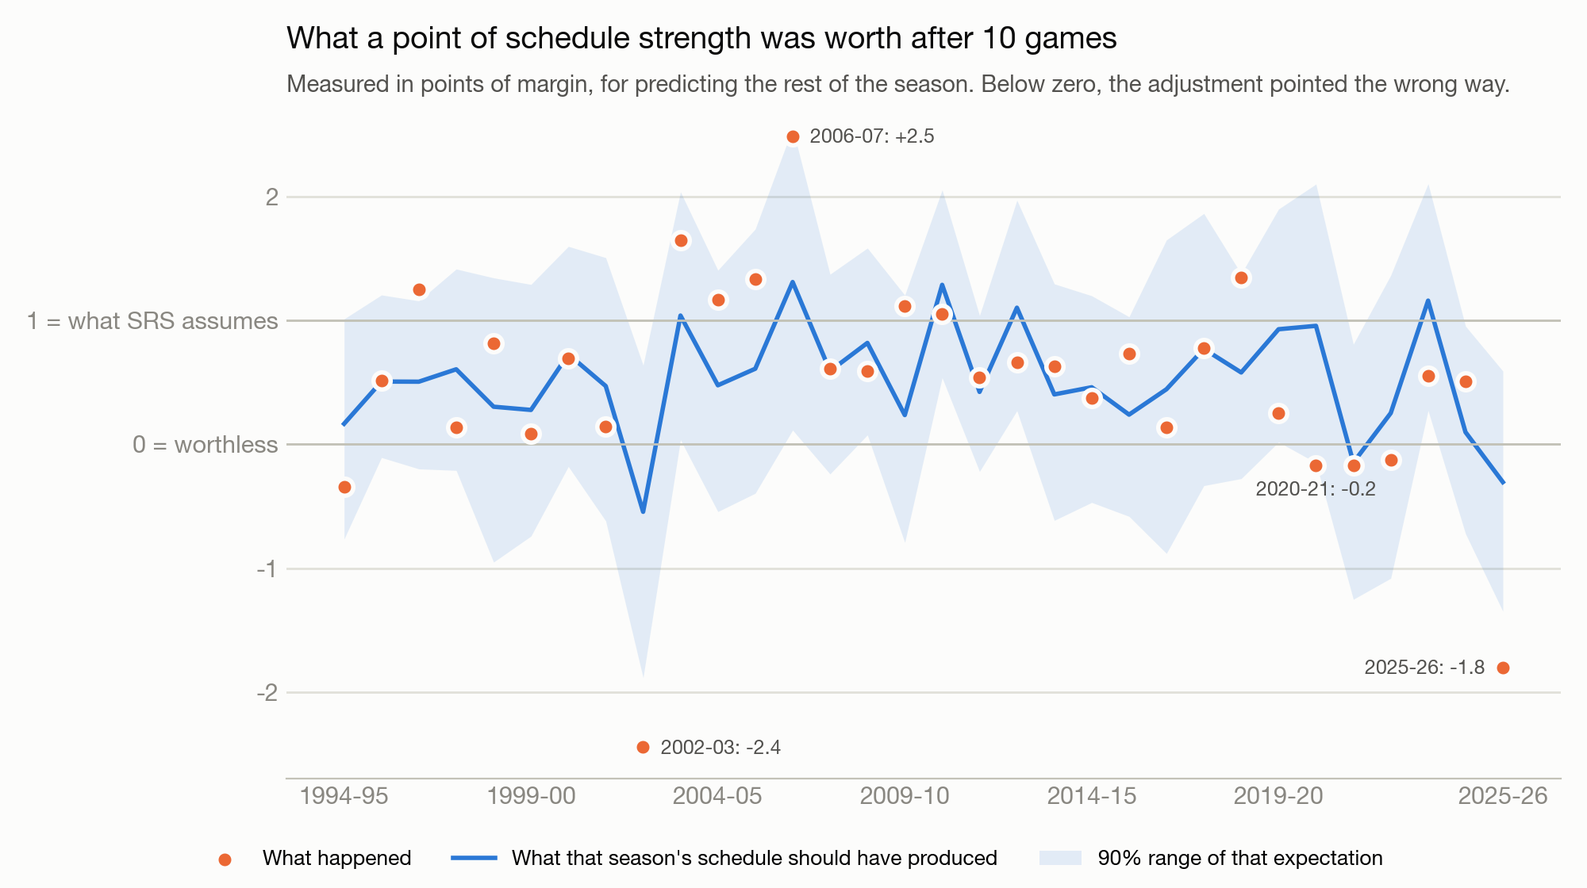
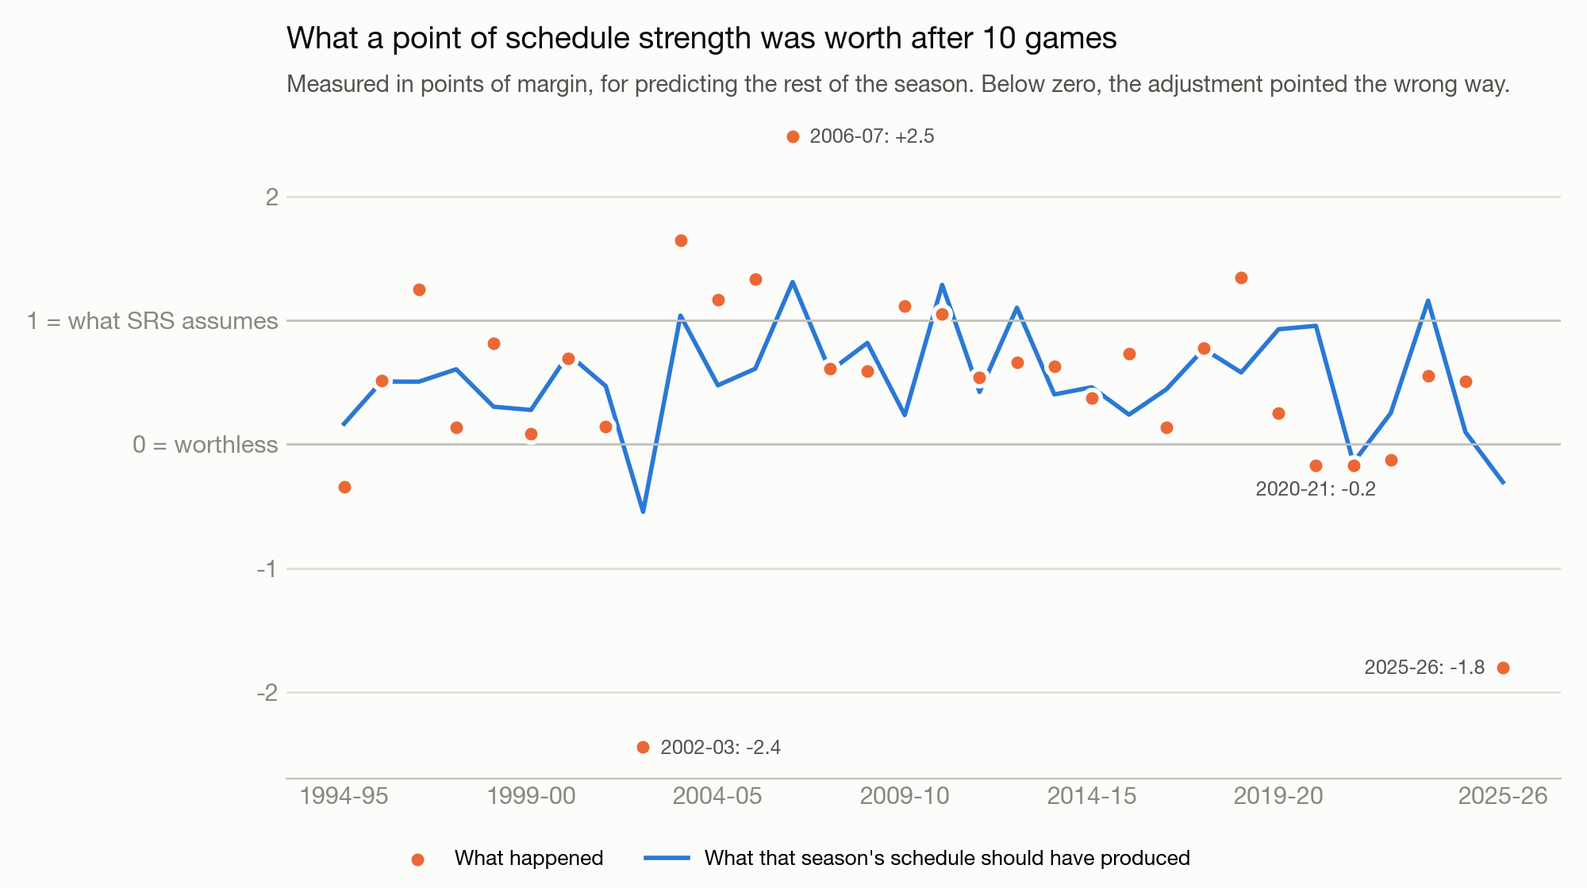
Rewrite the SRS post in the looser 2020 voice and recast its evidence
Simulation odds and percentiles are replaced with held-out results: a
head-to-head of SRS against plain point differential at games 10 to 41,
season counts and average gaps, and actual against replay-predicted
values as plain differences. The first chart loses its range band.
Sections, other numbers and caveats are unchanged.

Changed region(s): [[0.217, 0.1562, 0.961, 0.75], [0.155, 0.9375, 0.744, 1.0], [0.775, 0.9375, 0.868, 0.9688]]

diff --git a/src/lib/content/research/early-season-strength-of-schedule.md b/src/lib/content/research/early-season-strength-of-schedule.md
@@ -1,78 +1,90 @@
-Fourteen games into the season, Boston is outscoring opponents by 11.5 points a game, but its SRS is only +7.5. Utah is being outscored by 10.9 a game, and its SRS is -5.8. So the schedule adjustment is taking four points away from one team and handing five to the other. For context, the gap between point differential and SRS across the league is bigger at this stage than in any season since 1994-95.
+If you've looked at Basketball-Reference's SRS numbers lately, you may have noticed something odd, e.g., fourteen games into the season, Boston is outscoring its opponents by 11.5 points a game, but its SRS is only +7.5. On the other side, Utah is being outscored by 10.9 a game, and its SRS is -5.8. In other words, the schedule adjustment is taking four points away from one team and handing five to the other. For context, the gap between point differential and SRS across the league is bigger at this stage than in any season since 1994-95.
 
-A big part of that is simple. East and West teams have met only 47 times, the West has won 33 of them by 7.3 points a game, and SRS has to apply that gap to every team in both conferences. That split accounts for about 40 percent of the spread in schedule strength this year, against about 10 percent in a normal season. (Vegas had the conferences about even in October, and the gap is already fading. A week ago SRS had the West 12.4 points better than the East. Now it's 6.4.)
+A big part of that is simple. East and West teams have met only 47 times so far, the West has won 33 of those games by an average of 7.3 points, and SRS has no choice but to apply that gap to every team in both conferences. That split accounts for about 40 percent of the spread in schedule strength this year, against about 10 percent in a normal season. (Vegas had the conferences about even in October, and the gap is already fading: a week ago SRS had the West 12.4 points better than the East, and now it's 6.4.)
 
-But it did make me finally check something I've suspected for years: that early-season strength of schedule isn't as useful as it used to be.
+But it did finally get me to check something I've suspected for a few years now, which is that early-season strength of schedule just isn't as useful as it used to be.
 
-It isn't. Ten games in, a point of schedule strength used to be worth about 0.7 of a point of margin (SRS counts it as a full point). Since 2020 it has been worth about nothing. It was negative in four of the last seven seasons, and plain point differential beat SRS in five of the seven. Noisier games explain a small piece of that, and the versions of injuries, blowouts, home court, late-season changes and the NBA Cup that I tested don't explain the rest. Two seasons do most of the damage, for different reasons. In 2020-21 the schedule number measured nothing. In 2025-26 the schedule itself was stacked, and a few teams' early shooting was far from their norm.
+It turns out it isn't. Ten games in, a point of schedule strength used to be worth about 0.7 of a point of margin (SRS counts it as a full point). Since 2020 it has been worth roughly nothing. It was negative in four of the last seven seasons, and plain point differential beat SRS in five of the seven. Noisier games explain a small piece of that, and the versions of injuries, blowouts, home court, late-season changes and the NBA Cup that I tested don't explain the rest. Two seasons do most of the damage, and for different reasons: in 2020-21 the schedule number measured nothing, and in 2025-26 the schedule itself was stacked, and a few teams' early shooting was far from their norm.
 
-SRS isn't broken, though. By game 20 the adjustment works as well as it ever did. Before then, I'd give it half weight and lean on a prior.
+Note that SRS isn't 'broken'. By game 20 the adjustment works about as well as it ever did. Before then, I'd give it half weight and lean on a prior (more on both below).
 
 ## The test
 
-SRS is Doug Drinen's Simple Rating System, the one Basketball-Reference publishes: a team's average margin plus the average rating of its opponents. Margin plus schedule.
+For those unfamiliar, SRS is Doug Drinen's "Simple Rating System", which is what Basketball-Reference publishes for every team: a team's average margin, plus the average rating of the opponents it has played. So it's just margin plus schedule.
 
-The question I asked is narrow. After ten games, when you're predicting the rest of a team's season, how much is a point of schedule worth compared with a point of margin? SRS says one for one. If the real answer is 0.7, a schedule point is worth 70 cents on the dollar. If it's zero, you'd do just as well ignoring the schedule. And if it's negative, the adjustment is pointing the wrong way: teams that had played tough schedules went on to be *worse* than their margin suggested.
+The question I'm asking here is a narrow one. After ten games, when we're trying to predict the rest of a team's season, how much is a point of 'schedule' worth compared with a point of margin? SRS says one for one. If the real answer is 0.7, then a schedule point is worth 70 cents on the dollar. If it's zero, you'd do just as well ignoring the schedule entirely. And if it's negative, the adjustment is actually pointing the wrong way, i.e., teams that had played tough schedules went on to be *worse* than their margin suggested.
 
 ![What a point of schedule strength was worth after 10 games](/research-figures/early-season-strength-of-schedule/fig_value_by_season.png)
 
-Through 2018-19 the answer was about 0.7, and it went negative only twice in 25 seasons. In the seven seasons since, it has been negative four times and has never reached 0.7. Last season's -1.8 is the second-worst on record.
+As you can see, through 2018-19 the answer was about 0.7, and it went negative only twice in 25 seasons. In the seven seasons since, it has been negative four times and has never reached 0.7. Last season's -1.8 is the second-worst on record.
 
-Head to head at the ten-game mark, with nothing padded or regressed, SRS predicted the rest of the season better than plain point differential in 19 of 25 seasons before 2020. Since then it has won 2 of 7.
+A simpler way to see the same thing is a straight head-to-head, with nothing padded or regressed. At a given point in the season, which of SRS and plain point differential did the better job of predicting the rest of each team's season?
 
-One thing didn't change. A team's own point differential is exactly as predictive as it used to be: a point of early margin was worth 0.54 points over the rest of the season before 2020, and 0.55 since. Only the opponent half of SRS stopped working.
+| Games played | 1994-95 to 2018-19 | 2019-20 to 2025-26 |
+|---|---|---|
+| 10 | SRS better in 19 of 25 seasons, by 0.21 points | 2 of 7, worse by 0.10 |
+| 15 | 20 of 25, by 0.14 | 5 of 7, by 0.07 |
+| 20 | 19 of 25, by 0.13 | 5 of 7, by 0.16 |
+| 30 | 17 of 25, by 0.08 | 5 of 7, by 0.12 |
+| 41 | 19 of 24, by 0.06 | 5 of 7, by 0.09 |
+
+*The points are how much smaller SRS's typical miss on a team's rest-of-season rating was than plain point differential's, averaged over those seasons. The 41-game row has 24 earlier seasons because the lockout-shortened 1998-99 season is too short for it.*
+
+So at the ten-game mark, SRS used to beat plain point differential about three years in four, and since 2019-20 it has done it twice in seven. By game 15 it's mostly back, and by game 20 it's all the way back.
+
+One thing didn't change. A team's own point differential is exactly as predictive as it used to be: a point of early margin was worth 0.54 points over the rest of the season before 2020, and 0.55 since. It's only the opponent half of SRS that stopped working.
 
 ## Noise and luck
 
 The first two suspects were noisier games and plain bad luck.
 
-NBA games really have become less predictable. The typical miss between a game's result and what team quality would predict grew from about 11.5 points to 13.5, which makes every ten-game number shakier, opponents' numbers included. But when I simulate the recent seasons with the old noise level, the value of the adjustment recovers by only about 0.1. The real drop is 0.4 to 0.7, depending on which seasons you count.
+NBA games really have become less predictable. The typical miss between a game's result and what team quality would predict has grown from about 11.5 points to 13.5, which makes every ten-game number shakier (opponents' numbers included). But when I simulate the recent seasons with the old level of noise, the value of the adjustment only recovers by about 0.1, against a real drop of 0.4 to 0.7, depending on which seasons you count.
 
-As for luck, a single season of this number is very noisy, so one bad year means little. Seven years is different. I drew 20,000 random sets of seven pre-2020 seasons, and none came in as low as the last seven.
+As for luck, a single season of this number is very noisy, so one bad year doesn't mean much. Seven years is harder to wave away. For context, in every seven-season stretch from 1994-95 through 2018-19, SRS beat plain point differential at the ten-game mark in at least four of the seven seasons. In the last seven it has done it twice.
 
 ## When the schedule makes the adjustment wrong
 
 This is the idea that reorganized the whole thing for me: what a schedule adjustment is worth depends on who happened to play whom.
 
-Suppose the good teams happen to open against weak opponents, and the bad teams against strong ones. Now an easy schedule tells you two things. The team's margin is inflated, which is what SRS corrects for. But the team is also probably good, because this year the good teams are the ones who got the easy schedules. Those two pull in opposite directions, and if the second is strong enough, the right weight on schedule is zero or below, even if you knew every opponent's true strength perfectly.
+Suppose the good teams happen to open against weak opponents, and the bad teams against strong ones. Now an easy schedule tells us two things. The first is that the team's margin is inflated, which is what SRS corrects for. The second is that the team is probably good, because this year the good teams are the ones who got the easy schedules. Those two pull in opposite directions, and if the second is strong enough, the right weight on schedule is zero or below, even if we knew every opponent's true strength perfectly.
 
-That's what 2025-26 looked like. Oklahoma City's first ten opponents turned out to be four points worse than average, while Brooklyn and Washington opened against brutal slates. Across the league, the better a team turned out to be, the weaker its first ten opponents were, with a correlation of -0.62. It was the most stacked opening schedule in my 32 seasons. (The runner-up is 2002-03, which produced the single worst value on the chart.)
+That's what 2025-26 looked like. Oklahoma City's first ten opponents turned out to be four points worse than average, while Brooklyn and Washington opened against brutal slates. Across the league, the better a team turned out to be, the weaker its first ten opponents were, with a correlation of -0.62. That makes it the most 'stacked' opening schedule in my 32 seasons. (The runner-up is 2002-03, which produced the single worst value on the chart.)
 
 ![2025-26: good teams opened against weak ones](/research-figures/early-season-strength-of-schedule/fig_draw_2026.png)
 
-It holds across the whole sample too: the more an opening schedule was stacked this way, the less the adjustment was worth that year.
+It holds across the whole sample too, i.e., the more an opening schedule was stacked this way, the less the adjustment was worth that year.
 
-Was that just teams reacting to a hard start, with the ones buried early giving up later? Mostly not. Rate teams by their preseason Vegas win totals instead of how they turned out, and the 2021-22, 2024-25 and 2025-26 openers were already tilted the same way before a game was played. 2025-26 was less extreme on that measure, so part of its tilt did appear during the season.
+Was that just teams reacting to a hard start, with the ones buried early giving up later? Mostly not. If we rate teams by their preseason Vegas win totals instead of by how they turned out, the 2021-22, 2024-25 and 2025-26 openers were already tilted the same way before a game was played. (2025-26 was less extreme on that measure, so part of its tilt did appear during the season.)
 
 ## Grading each season against its own schedule
 
-So the raw value isn't a fair grade. A season with a stacked schedule *should* score low.
+So the raw value isn't really a fair grade, since a season with a stacked schedule *should* score low.
 
-To grade each season fairly, I replayed its real schedule 4,000 times, with every team held at one steady strength and ordinary game-to-game randomness. That gives the value the adjustment should have had that year, and a range around it. It's the blue line and band in the first chart.
+To grade each season fairly, I replayed its real schedule 4,000 times, with every team held at one steady strength and ordinary game-to-game randomness. The average of those replays is the value the adjustment 'should' have had that year, given who played whom. (It's the blue line in the first chart.)
 
-Before 2020, reality landed in the middle of that range on average, at the 55th percentile. Since 2020 it has averaged the 26th.
+Before 2020, the real value averaged 0.64, a touch above the 0.55 the replays predicted. Since 2020 it has averaged -0.14, against a predicted 0.42.
 
-| Season | What happened | What its schedule predicted | Grade |
+| Season | What happened | What its schedule predicted | Difference |
 |---|---|---|---|
-| 2019-20 | +0.26 | +0.93 | Below |
-| 2020-21 | -0.17 | +0.96 | Far below |
-| 2021-22 | -0.17 | -0.15 | On target. The schedule was stacked. |
-| 2022-23 | -0.13 | +0.25 | A little below |
-| 2023-24 | +0.55 | +1.16 | Below, though it looked fine |
-| 2024-25 | +0.51 | +0.10 | Above, despite a stacked schedule |
-| 2025-26 | -1.80 | -0.31 | Far below |
+| 2019-20 | +0.26 | +0.93 | -0.67 |
+| 2020-21 | -0.17 | +0.96 | -1.13 |
+| 2021-22 | -0.17 | -0.15 | -0.02 |
+| 2022-23 | -0.13 | +0.25 | -0.38 |
+| 2023-24 | +0.55 | +1.16 | -0.61 |
+| 2024-25 | +0.51 | +0.10 | +0.41 |
+| 2025-26 | -1.80 | -0.31 | -1.49 |
 
-Stacked schedules are part of the story. 2021-22 landed right where its stacked schedule predicted. But they aren't the whole story, because 2020-21 and 2023-24 had friendly schedules and came in low anyway. Five of the seven seasons fell short of what their own schedules predicted, and two of them, 2020-21 and 2025-26, landed below the 5th percentile.
+So stacked schedules are part of the story, e.g., 2021-22 landed right where its stacked schedule predicted. But they aren't the whole story, since 2020-21 and 2023-24 had friendly schedules and came in low anyway. Five of the seven seasons fell short of what their own schedules predicted, and two of them (2020-21 and 2025-26) fell short by more than a point, which happened only once in the 25 seasons before that.
 
-Those two I can partly explain.
+Those two I can at least partly explain.
 
 ## 2020-21: the schedule number measured nothing
 
-The COVID season started on December 22, and to cut travel the league had teams play each other twice in a row, baseball style. A quarter of all early games were part of one of those sets, so ten games covered about eight different opponents instead of the usual nine.
+The COVID season started on December 22, and to cut down on travel the league had teams play each other twice in a row, baseball style. A quarter of all early games were part of one of those sets, so ten games covered about eight different opponents instead of the usual nine.
 
 That alone shouldn't have sunk the adjustment. My replays know the schedule was thin, and they still expected +0.96.
 
-What stands out is that ten-game strength of schedule that year had no relationship with how good those opponents turned out to be. The correlation was 0.02, where a normal season is somewhere between 0.4 and 0.8.
+What stands out is that ten-game strength of schedule that year had essentially no relationship with how good those opponents turned out to be. The correlation was 0.02, where a normal season is somewhere between 0.4 and 0.8.
 
 ![Did the game-10 schedule number measure anything?](/research-figures/early-season-strength-of-schedule/fig_sos_measurement_2021.png)
 
@@ -84,35 +96,40 @@ Five teams did most of that:
 - **Minnesota**, missing Karl-Anthony Towns early, climbed from -11.6 to -4.8.
 - **Indiana** slid from +5.9 to -0.9.
 
-With every team seeing only eight opponents, often twice each, those five misrated teams sat inside a lot of other teams' schedule numbers at once. Swap in what just those five turned out to be, and the correlation jumps from 0.02 to 0.49, and the value of the adjustment goes from -0.17 to +0.63.
+With every team seeing only eight opponents, often twice each, those five misrated teams sat inside a lot of other teams' schedule numbers at once. If we swap in what just those five turned out to be, the correlation jumps from 0.02 to 0.49, and the value of the adjustment goes from -0.17 to +0.63.
 
-One caution here: I took 2020-21 apart after seeing it was the outlier, and I chose those five because they were the most misrated. So this locates the failure. It doesn't prove the cause.
+Note that I only took 2020-21 apart after seeing it was the outlier, and I picked those five teams because they were the most misrated. So this tells us where the failure was, and doesn't prove what caused it.
 
 ## 2025-26: a stacked schedule, then early shooting
 
-Last season failed differently. The schedule number was a fine measurement that year (its correlation with later opponent quality was a normal 0.65). But the opening schedule was the most stacked on record, and that alone drags the expected value down to about -0.3.
+Last season failed in a different way. The schedule number was a perfectly fine measurement that year (its correlation with later opponent quality was a normal 0.65). But the opening schedule was the most stacked on record, and that alone drags the expected value down to about -0.3.
 
 Part of the remaining fall to -1.80 looks like shooting. Chicago made 39.9 percent of its threes in its first ten games, against the 35.9 its shooters' track records implied. Boston made 32.2 against an expected 37.4, and Oklahoma City 34.2 against 37.8. Chicago looked like a +4 team after ten games and played like a -6 team afterward.
 
-If you move every team's early margins halfway toward expected shooting, the value goes from -1.80 to -0.7. Move them all the way and it's about zero. That's a sensitivity check, not a measurement: the adjustment can't tell luck from real changes in shot quality, so I read it as shooting explaining part of the gap. It's also a 2025-26 story only. The same adjustment doesn't help the earlier seasons.
+If we move every team's early margins halfway toward expected shooting, the value goes from -1.80 to -0.7. Move them all the way and it's about zero. Note that this is a sensitivity check and not a measurement: the adjustment can't tell luck from real changes in shot quality, so I read it as shooting explaining part of the gap. It's also a 2025-26 story only, i.e., the same adjustment doesn't help the earlier seasons.
 
 ## What else I checked
 
-Given this year's East-West mess, the obvious question is whether it's all conference noise. It isn't. The East-West part of the schedule swings wildly from year to year and has made recent seasons look worse. But with the conference gap taken out, the within-conference part of the schedule also fell, from about 0.54 to 0.15.
+Given this year's East-West mess, the obvious question is whether this is all just conference noise. It isn't. The East-West part of the schedule swings wildly from year to year and has made recent seasons look worse. But with the conference gap taken out, the within-conference part of the schedule also fell, from about 0.54 to 0.15.
 
-I also checked injuries and rest, blowouts, home court, pace, late-season changes and the NBA Cup, and none of the versions I tested explains the whole decline. The pattern survives when I predict only each team's next ten games. Removing Cup games helps in 2025-26, but removing the same number of random games does as well about a quarter of the time. These checks narrow the possibilities. They don't prove those factors had no effect.
+I also checked injuries and rest, blowouts, home court, pace, late-season changes and the NBA Cup, and none of the versions I tested explains the whole decline. The pattern survives when I predict only each team's next ten games. Removing the Cup games helps a little in 2025-26 (the value goes from -1.80 to -1.14, against -1.46 for removing the same number of games at random), and doesn't help in 2023-24. These checks narrow the possibilities, but they don't prove those factors had no effect.
 
-Two things stay open. Five of seven seasons came in under what their own schedules predicted, which is unusual under my steady-strength replays. And three of the five most stacked opening schedules in 32 years were 2021-22, 2024-25 and 2025-26. I found no clear evidence that the Cup is behind that, and I'd rather leave both open than pick a story.
+Two things stay open. Five of the last seven seasons came in under what their own schedules predicted, against a bit under half of the seasons before that. And three of the five most stacked opening schedules in 32 years were 2021-22, 2024-25 and 2025-26. I found no clear evidence that the Cup is behind that, and I'd rather leave both open than pick a story.
 
 ## What to do about it
 
-- **Before game 20, give the schedule half weight.** Margin plus half of the opponents' average margin had the lowest error from 2019-20 through 2024-25: 3.83 points, against 3.86 for margin alone and 3.90 for full SRS. I picked the half after looking, so call it a rule of thumb.
-- **Pad toward a prior.** About 8 games of padding toward league average, or about 20 toward a preseason Vegas win total. (The [padding post](/research/stabilization-rates-and-the-padding-approach) explains how padding works.) The Vegas version cuts early-season error by about 14 percent.
-- **Check the schedule.** You don't know real team strength in November, but you do know preseason expectations, and by that measure this season's first 139 games were an ordinary draw. Much of the Boston and Utah gaps comes from an East-West split built on 47 games.
-- **After game 20, relax.** The adjustment works as well as it ever did.
+So what should we actually do with all this?
+
+Before game 20, I'd give the schedule half weight. Margin plus half of the opponents' average margin had the lowest error from 2019-20 through 2024-25, at 3.83 points, against 3.86 for margin alone and 3.90 for full SRS. (Note that I picked 'half' after looking at the data, so treat it as a rule of thumb.)
+
+I'd also pad toward a prior, i.e., about 8 games of padding toward league average, or about 20 toward a preseason Vegas win total. (The [padding post](/research/stabilization-rates-and-the-padding-approach) explains how padding works.) The Vegas version cuts early-season error by about 14 percent.
+
+It's also worth checking the schedule itself. We don't know real team strength in November, but we do know preseason expectations, and by that measure this season's first 139 games were an ordinary draw. Much of the Boston and Utah gaps comes from an East-West split built on 47 games.
+
+And after game 20, relax. The adjustment works about as well as it ever did.
 
 ## Caveats
 
-I chose the ten-game cutoff and the season groupings after looking at the data. Single seasons are very noisy, and 32 seasons isn't many. The replays assume every team has one true strength all year, so anything that breaks that lands in "unexplained." And the 2020-21 and 2025-26 explanations were fitted after the fact.
+There are of course limits to all of this. I chose the ten-game cutoff and the season groupings after looking at the data. Single seasons are very noisy, and 32 seasons isn't many. The replays assume every team has one true strength all year, so anything that breaks that assumption lands in 'unexplained'. And the 2020-21 and 2025-26 explanations were fitted after the fact.
 
-*For the technically inclined: the "value of a schedule point" is the ratio b/a from predicting each team's rest-of-season SRS as a × margin + b × SOS at its tenth game, weighted by games remaining.*
+*For the technically inclined: the "value of a schedule point" is the ratio b/a from predicting each team's rest-of-season SRS as a × margin + b × SOS at its tenth game, weighted by games remaining. In the head-to-head table, each rating is scored as it stands against each team's rest-of-season SRS on the date of its 10th, 15th, 20th, 30th or 41st game, with the same weights.*
